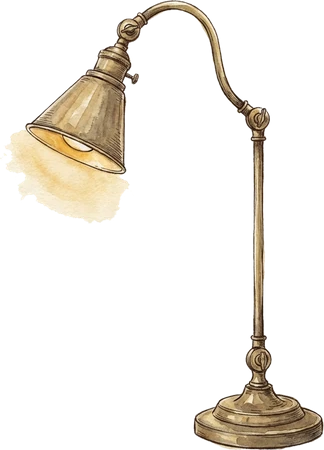
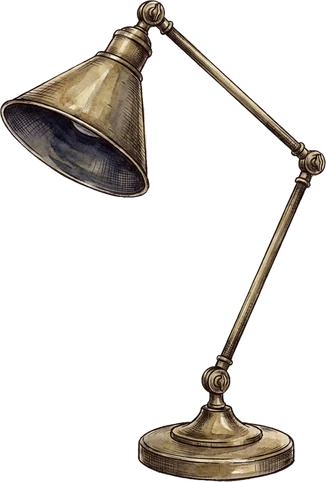
Classic shelf: unlit lamp clear of the books; light done coherently in CSS
Tom's notes: the lamp crossed into the spines and its baked-in painted glow
didn't mesh. Fixes:
- Swap to a glow-less brass lamp (switched-off, dark shade interior) so the
  fixture carries no painted light.
- Shrink + shift it into the gap beside the books so the shade no longer
  overlaps any spine.
- Rebuild the light entirely in CSS, originating at the measured shade opening
  (81%/23% of the light layer): a warm core at the shade spilling down-left
  across the spines AND onto the shelf, with the shadow falling off left.
Verified: books by the lamp still clickable, drag/tap intact, no errors.

Changed region(s): [[0.0, 0.0, 1.0, 1.0]]

diff --git a/design-lab/dash-classic.html b/design-lab/dash-classic.html
@@ -97,15 +97,16 @@
   .bookend{height:210px;width:auto;align-self:flex-end;margin-right:-6px;pointer-events:none;
     filter:drop-shadow(-7px 5px 4px rgba(40,28,12,.30))}
   /* lamp on the right, arm reaching left; its shade is the light source for the scene */
-  .lamp{position:absolute;right:8px;bottom:24px;height:300px;width:auto;z-index:5;pointer-events:none;
+  .lamp{position:absolute;right:14px;bottom:20px;height:250px;width:auto;z-index:5;pointer-events:none;
     filter:drop-shadow(-10px 8px 8px rgba(40,28,12,.22))}
-  /* soft shadow falling to the LEFT (away from the lamp) */
-  .lightwash{position:absolute;left:0;right:0;top:-6px;bottom:34px;z-index:3;pointer-events:none;
-    background:linear-gradient(to right, rgba(26,18,8,.34), rgba(26,18,8,.12) 34%, transparent 60%);
+  /* soft shadow falling to the LEFT, away from the lamp (over spines AND shelf) */
+  .lightwash{position:absolute;left:0;right:0;top:-6px;bottom:2px;z-index:3;pointer-events:none;
+    background:linear-gradient(to right, rgba(24,16,7,.38), rgba(24,16,7,.13) 34%, transparent 58%);
     mix-blend-mode:multiply}
-  /* warm pool of light thrown by the shade (upper-right), lifting the right of the scene */
-  .lampglow{position:absolute;left:0;right:0;top:-10px;bottom:34px;z-index:4;pointer-events:none;
-    background:radial-gradient(95% 100% at 74% 22%, rgba(255,206,128,.38), rgba(255,206,128,.12) 48%, transparent 76%);
+  /* the light itself: warm core at the shade opening, spilling down-left across books + shelf */
+  .lampglow{position:absolute;left:0;right:0;top:-10px;bottom:2px;z-index:4;pointer-events:none;
+    background:radial-gradient(80% 88% at 81% 23%,
+      rgba(255,216,150,.54), rgba(255,206,132,.22) 32%, rgba(255,206,132,.06) 58%, transparent 78%);
     mix-blend-mode:screen}
   .bk{position:relative;height:204px;border:none;background:none;padding:0;cursor:grab;touch-action:none;
     transform:rotate(var(--lean,0deg));filter:drop-shadow(-6px 2px 3px rgba(28,18,8,.26));

diff --git a/scripts/_designlab_lamp_off.py b/scripts/_designlab_lamp_off.py
@@ -1,0 +1,85 @@
+"""A glow-less brass desk lamp — the SWITCHED-OFF fixture only, so the scene's
+light can be done entirely in CSS. Line-and-wash, cut to alpha.
+Outputs design-lab/assets/lw/shelf/lampoff_*.png
+"""
+import io, os, time
+from google import genai
+from google.genai import types
+from PIL import Image
+import numpy as np
+from scipy.ndimage import binary_dilation, binary_erosion, binary_fill_holes, gaussian_filter, label as cclabel
+
+ROOT = os.path.dirname(os.path.dirname(os.path.abspath(__file__)))
+OUT = os.path.join(ROOT, "design-lab", "assets", "lw", "shelf")
+client = genai.Client(api_key=os.environ["GEMINI_API_KEY"])
+MODEL = "gemini-3-pro-image-preview"
+
+STYLE = ("Refined pen-and-ink linework with soft watercolour washes on cold-press paper, the "
+         "same hand-painted style as a cloth book spine. Plain flat PURE-WHITE background, nothing "
+         "else at all — no cast shadow, no light, no glow anywhere in the image.")
+OFF = ("IMPORTANT: the lamp is SWITCHED OFF. There is NO light, NO glow, NO warm wash, NO "
+       "illumination and NO bright bulb — the inside of the shade is dark and shadowed. Do not "
+       "paint any light spilling from the shade. ")
+
+JOBS = {
+  "lampoff_a": (OFF + "A classic adjustable brass desk lamp (anglepoise style) standing on its round "
+     "weighted base, the jointed arm reaching UP and bending OVER so the conical shade points to the "
+     "LEFT and slightly down. Aged brass, dark empty shade interior. Seen from the side, upright base, "
+     "about one and a half book-heights tall. " + STYLE, "3:4"),
+  "lampoff_b": (OFF + "A compact brass desk lamp: a round weighted base, a short curved brass arm, and a "
+     "conical brass shade at the top angled to point LEFT and down. Aged brass, the shade interior dark "
+     "and unlit. Seen from the side, upright, a little taller than a hardback book. " + STYLE, "3:4"),
+}
+
+def extract(r):
+    for c in (r.candidates or []):
+        for p in (getattr(getattr(c, "content", None), "parts", None) or []):
+            d = getattr(p, "inline_data", None)
+            if d and getattr(d, "data", None):
+                return d.data
+    return None
+
+def gen(prompt, ar):
+    for attempt in range(4):
+        try:
+            r = client.models.generate_content(model=MODEL, contents=[prompt],
+                config=types.GenerateContentConfig(response_modalities=["IMAGE"],
+                    image_config=types.ImageConfig(aspect_ratio=ar)))
+            d = extract(r)
+            if d: return Image.open(io.BytesIO(d)).convert("RGB")
+        except Exception as e:
+            if any(k in str(e) for k in ("503", "429", "UNAVAILABLE")):
+                time.sleep(5 * (attempt + 1)); continue
+            raise
+    raise RuntimeError("gen failed")
+
+def cut(im):
+    a = np.array(im).astype(np.float64)
+    corners = np.concatenate([a[:14, :14].reshape(-1, 3), a[:14, -14:].reshape(-1, 3),
+                              a[-14:, :14].reshape(-1, 3), a[-14:, -14:].reshape(-1, 3)])
+    bg = np.median(corners, axis=0)
+    obj = np.sqrt(((a - bg) ** 2).sum(axis=2)) > 30
+    obj = binary_fill_holes(binary_dilation(obj, iterations=2))
+    lab, n = cclabel(obj)
+    if n > 1:
+        sz = np.bincount(lab.ravel()); sz[0] = 0
+        obj = lab == sz.argmax()
+    obj = binary_erosion(obj, iterations=2)
+    obj = binary_fill_holes(obj)
+    alpha = gaussian_filter(obj.astype(np.float64), 1.1)
+    mn = a.min(axis=2)
+    fringe = (alpha > 0.05) & (alpha < 0.95) & (mn > 212)
+    alpha[fringe] = 0.0
+    core = binary_erosion(alpha > 0.5, iterations=1)
+    alpha = np.clip(gaussian_filter(np.maximum(alpha, core.astype(np.float64)), 0.7), 0, 1)
+    ys, xs = np.where(alpha > 0.5)
+    y0, y1, x0, x1 = ys.min(), ys.max() + 1, xs.min(), xs.max() + 1
+    rgba = np.dstack([a, alpha * 255]).astype(np.uint8)[y0:y1, x0:x1]
+    return Image.fromarray(rgba, "RGBA")
+
+for name, (prompt, ar) in JOBS.items():
+    p = os.path.join(OUT, name + ".png")
+    if os.path.exists(p): print("have", name); continue
+    cut(gen(prompt, ar)).save(p)
+    print("made", name, flush=True)
+print("done ->", OUT)
